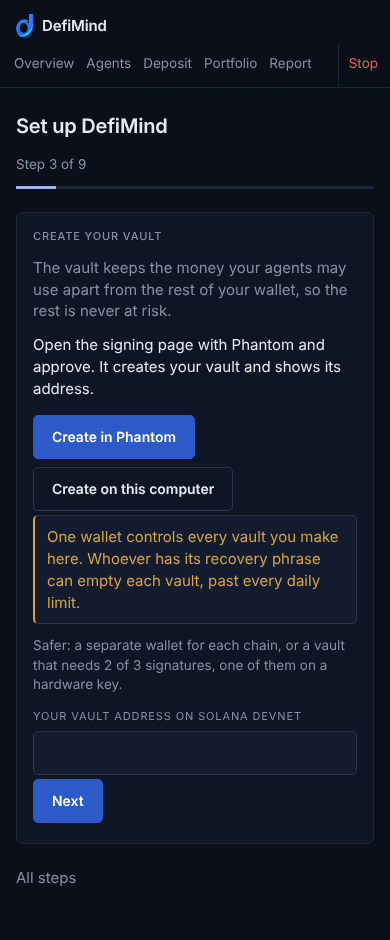
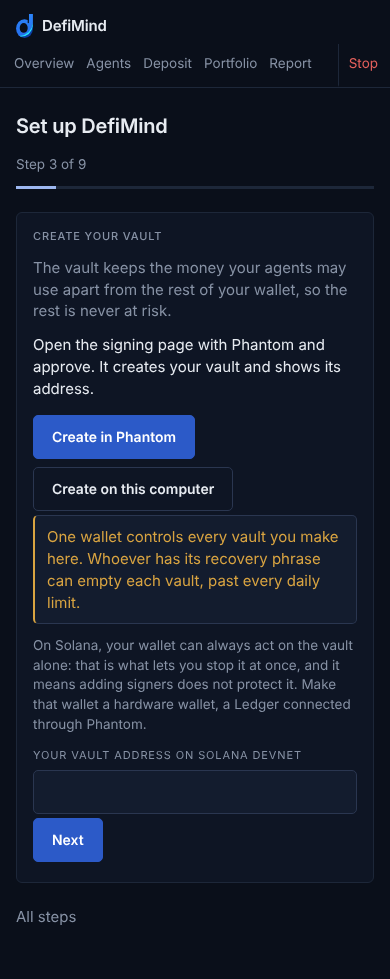
fix(panel): comma decimals on every money and percent input; owner key advice per vault kind
An iPhone keypad in pt-BR types "2,00": one comma or one dot now marks
the cents, still parsed exactly to bigint. Thousands separators are
refused, and so is a comma before exactly three digits ("1,000" is a
thousand in English, one in Portuguese). A refused form keeps what the
owner typed.

HIGH-3 copy per ON-29: a Solana vault's config authority acts alone, so
added signers do not protect it; the advice there is a hardware wallet
(Ledger through Phantom). 2 of 3 stays the advice for a Safe, where the
threshold binds.

Claude-Session: https://claude.ai/code/session_01JbATMzpGbP64syCMYQxB15

diff --git a/packages/panel/src/ui/owner-key.ts b/packages/panel/src/ui/owner-key.ts
@@ -1,26 +1,37 @@
+import { isSolana } from '../domain/guide.js'
 import { card, el } from './dom.js'
 
 /**
- * CR-022, HIGH-3. Facts only: what one key behind every vault means, and the trade-off of the safer
- * set-ups. The vault's threshold and signers join this once guard-core reads them (ON-29, GC-64).
+ * CR-022, HIGH-3. Facts only: what one key behind every vault means, and what protects each kind of
+ * vault. On Solana the vault's config authority is the owner's wallet, acting alone so the kill is
+ * instant: added members do not bind it (ON-29). A Safe's threshold does. The vault's threshold and
+ * signers join this once guard-core reads them (GC-64).
  */
 const RISK =
   'One wallet controls every vault you make here. Whoever has its recovery phrase can empty each vault, past every daily limit.'
 
-const SAFER = [
-  'Safer: a separate wallet for each chain, or a vault that needs 2 of 3 signatures, one of them on a hardware key.',
-  'A 2-of-3 vault is slower to stop in an emergency, because a second signer must sign too. The signing page here works with a one-signer vault; with 2 of 3, you approve changes in Squads or Safe.',
-]
+const SOLANA =
+  'On Solana, your wallet can always act on the vault alone: that is what lets you stop it at once, and it means adding signers does not protect it. Make that wallet a hardware wallet, a Ledger connected through Phantom.'
+
+const SAFE =
+  'On Robinhood Chain, a vault (Safe) that needs 2 of 3 signatures, one of them on a hardware key, does protect it. It is slower to stop in an emergency, because a second signer must sign too, and you then approve changes in Safe: the signing page here works with a one-signer vault.'
+
+const SEPARATE =
+  'Use a separate wallet for each chain, so one leaked phrase reaches one vault only.'
+
+const advice = (chain: string) => (isSolana(chain) ? SOLANA : SAFE)
 
 /** Where the guide creates the vault: the moment the owner picks the wallet that will control it. */
-export function ownerKeyNote() {
-  return [el('p', { class: 'flag' }, RISK), el('p', { class: 'muted' }, SAFER[0])]
+export function ownerKeyNote(chain: string) {
+  return [el('p', { class: 'flag' }, RISK), el('p', { class: 'muted' }, advice(chain))]
 }
 
-export function ownerKeyCard() {
+export function ownerKeyCard(chains: string[]) {
+  const kinds = [...new Set(chains.map(advice))]
   return card(
     el('h2', {}, 'Who controls your vaults'),
     el('p', { class: 'flag' }, RISK),
-    ...SAFER.map((line) => el('p', {}, line)),
+    ...kinds.map((line) => el('p', {}, line)),
+    chains.length > 1 && el('p', {}, SEPARATE),
   )
 }

diff --git a/packages/panel/test/web/owner-key.e2e.ts b/packages/panel/test/web/owner-key.e2e.ts
@@ -4,6 +4,7 @@ import { join } from 'node:path'
 import { chromium, type Browser, type Page } from 'playwright'
 import { afterAll, beforeAll, describe, expect, it } from 'vitest'
 import { buildPanel } from '../../build.js'
+import { CHAINS } from '@defimind/shared'
 import { openDevice, status } from './device.js'
 
 let browser: Browser
@@ -36,20 +37,37 @@ describe.each([390, 1280])('the owner key at %i px (CR-022)', (width) => {
     await signIn(page, guard.origin)
     await page.goto(`${guard.origin}/panel/start/vault`)
     await page.getByText(RISK).waitFor()
-    await page
-      .getByText(/a vault that needs 2 of 3 signatures, one of them on a hardware key/)
-      .waitFor()
+    // A Solana vault: its config authority acts alone, so only a hardware wallet protects it.
+    await page.getByText(/adding signers does not protect it/).waitFor()
+    await page.getByText(/a Ledger connected through Phantom/).waitFor()
+    expect(await page.getByText(/2 of 3/).count()).toBe(0)
     expect(violations).toEqual([])
     await close()
   })
 
-  it('is explained in settings, the slower kill of a 2-of-3 included', async () => {
+  it('is explained in settings for each kind of vault, the slower kill of a 2-of-3 included', async () => {
     const { guard, page, violations, close } = await openDevice(browser, dist, width, true)
     await signIn(page, guard.origin)
+    // Solana and a Safe chain: each gets its own advice, and a separate wallet per chain.
+    await page.route('**/v1/owner/settings', (route) =>
+      route.request().method() === 'GET'
+        ? route.fulfill({
+            contentType: 'application/json',
+            body: JSON.stringify({
+              chains: [{ chain: CHAINS.solanaDevnet }, { chain: CHAINS.baseSepolia }],
+            }),
+          })
+        : route.fallback(),
+    )
     await page.getByRole('link', { name: 'Settings' }).click()
     await page.getByRole('heading', { name: 'Who controls your vaults' }).waitFor()
     await page.getByText(RISK).waitFor()
+    await page.getByText(/adding signers does not protect it/).waitFor()
+    await page
+      .getByText(/needs 2 of 3 signatures, one of them on a hardware key, does protect/)
+      .waitFor()
     await page.getByText(/slower to stop in an emergency/).waitFor()
+    await page.getByText(/a separate wallet for each chain/).waitFor()
     const scroll = await page.evaluate(() => document.documentElement.scrollWidth)
     expect(scroll).toBeLessThanOrEqual(width)
     expect(violations).toEqual([])

diff --git a/packages/panel/src/domain/money.ts b/packages/panel/src/domain/money.ts
@@ -3,7 +3,10 @@ import { getAddress, USDC_DECIMALS, usdSymbol } from '@defimind/shared'
 
 const ATOMIC = /^(0|[1-9]\d*)$/
 const UNIT = 10n ** BigInt(USDC_DECIMALS)
-const DOLLARS = /^\$?(\d{1,12})(?:\.(\d{1,6}))?$/
+// One dot or one comma before the cents: an iPhone in pt-BR types "2,00". No thousands separators:
+// "1.234,56" is refused, and so is a comma before exactly three digits, since "1,000" reads as a
+// thousand in English and as one in Portuguese.
+const DOLLARS = /^\$?(\d{1,12})(?:\.(\d{1,6})|,(?!\d{3}$)(\d{1,6}))?$/
 
 /** Dollar-token atomic units to dollars, in bigint: always cents, more digits only when not zero. */
 export function formatUsd(amount: string): string {
@@ -16,13 +19,14 @@ export function formatUsd(amount: string): string {
   return `$${whole}.${fraction.padEnd(2, '0')}`
 }
 
-/** "12.5" or "$12.50" to atomic units; undefined for anything else, a negative included. */
+/** "12.5", "12,50" or "$12.50" to atomic units; undefined for anything else, a negative included. */
 export function parseDollars(text: string): string | undefined {
   const match = DOLLARS.exec(text.trim())
   if (match === null) {
     return undefined
   }
-  const [, whole = '0', fraction = ''] = match
+  const [, whole = '0', dot, comma] = match
+  const fraction = dot ?? comma ?? ''
   return (BigInt(whole) * UNIT + BigInt(fraction.padEnd(USDC_DECIMALS, '0'))).toString()
 }
 

diff --git a/packages/panel/test/web/trading.e2e.ts b/packages/panel/test/web/trading.e2e.ts
@@ -113,6 +113,19 @@ describe.each([390, 1280])('trading at %i px', (width) => {
     await page.getByRole('button', { name: 'Save trading' }).click()
     await expect.poll(() => status(page).textContent()).toMatch(/write a percent/)
     expect(guard.state.puts).toHaveLength(2)
+    // A refusal keeps what the owner typed.
+    expect(await page.getByLabel('Price impact up to, in percent').inputValue()).toBe('lots')
+    expect(await page.getByLabel('Each buy, in dollars').inputValue()).toBe('25.00')
+
+    // An iPhone in pt-BR types a comma.
+    await page.getByLabel('Price impact up to, in percent').fill('2,5')
+    await page.getByLabel('Each buy, in dollars').fill('2,00')
+    await page.getByRole('button', { name: 'Save trading' }).click()
+    await expect.poll(() => status(page).textContent()).toBe('Trading saved.')
+    expect(guard.state.puts[2]?.policy['trading']).toMatchObject({
+      maxTradeUsd: '2000000',
+      maxPriceImpactBps: 250,
+    })
     await close()
   })
 

diff --git a/packages/panel/test/domain.test.ts b/packages/panel/test/domain.test.ts
@@ -33,7 +33,25 @@ describe('money', () => {
     expect(parseDollars('12.5')).toBe('12500000')
     expect(parseDollars(' $0.000001 ')).toBe('1')
     expect(parseDollars('7')).toBe('7000000')
-    for (const bad of ['', '-1', '1.1234567', '1,000', '1e6', '$', '.5']) {
+    // An iPhone keypad in pt-BR types a comma.
+    expect(parseDollars('2,00')).toBe('2000000')
+    expect(parseDollars('2.00')).toBe('2000000')
+    expect(parseDollars('2')).toBe('2000000')
+    expect(parseDollars('0,5')).toBe('500000')
+    expect(parseDollars('$1,250000')).toBe('1250000')
+    for (const bad of [
+      '',
+      '-1',
+      '1.1234567',
+      '1,000',
+      '1.234,56',
+      '1,234.56',
+      '2,',
+      ',5',
+      '1e6',
+      '$',
+      '.5',
+    ]) {
       expect(parseDollars(bad)).toBeUndefined()
     }
   })

diff --git a/packages/panel/test/trading.test.ts b/packages/panel/test/trading.test.ts
@@ -81,10 +81,12 @@ describe('percent', () => {
 
   it('parses a percent to basis points, up to 100', () => {
     expect(parsePercent('1.5')).toBe(150)
+    expect(parsePercent('1,5')).toBe(150)
+    expect(parsePercent('0,25%')).toBe(25)
     expect(parsePercent(' 3% ')).toBe(300)
     expect(parsePercent('0.05')).toBe(5)
     expect(parsePercent('100')).toBe(10_000)
-    for (const bad of ['', '100.01', '-1', '1.234', 'one', '1e2']) {
+    for (const bad of ['', '100.01', '-1', '1.234', '1,234', '1.2,3', 'one', '1e2']) {
       expect(parsePercent(bad)).toBeUndefined()
     }
   })

diff --git a/packages/panel/src/domain/trading.ts b/packages/panel/src/domain/trading.ts
@@ -53,9 +53,9 @@ export function percent(bps: number): string {
   return `${(bps / 100).toFixed(2)}%`
 }
 
-/** "1.5" or "1.50%" to basis points, from 0 to 100%; undefined for anything else. */
+/** "1.5", "1,5" or "1.50%" to basis points, from 0 to 100%; undefined for anything else. */
 export function parsePercent(text: string): number | undefined {
-  const match = /^(\d{1,3})(?:\.(\d{1,2}))?%?$/.exec(text.trim())
+  const match = /^(\d{1,3})(?:[.,](\d{1,2}))?%?$/.exec(text.trim())
   if (match === null) {
     return undefined
   }

diff --git a/packages/panel/src/ui/steps.ts b/packages/panel/src/ui/steps.ts
@@ -65,7 +65,7 @@ async function vault(ctx: Context): Promise<Child[]> {
       'Open the signing page with Phantom and approve. It creates your vault and shows its address.',
     ),
     ...walletLinks(signLink(location.origin, chain, { action: 'create' }), 'Create'),
-    ...ownerKeyNote(),
+    ...ownerKeyNote(chain),
     el('label', { for: 'vault' }, `Your vault address on ${chainName(chain)}`),
     input,
     button(

diff --git a/packages/panel/src/ui/settings.ts b/packages/panel/src/ui/settings.ts
@@ -89,7 +89,7 @@ export async function settings(ctx: Context): Screen {
   return [
     el('h1', {}, 'Settings'),
     chainsCard(ctx, chains),
-    chains.length > 0 && ownerKeyCard(),
+    chains.length > 0 && ownerKeyCard(chains.map((c) => c.chain)),
     card(el('h2', {}, 'Notifications'), pushSwitch(ctx, push)),
     card(
       el('h2', {}, 'Passkeys'),
